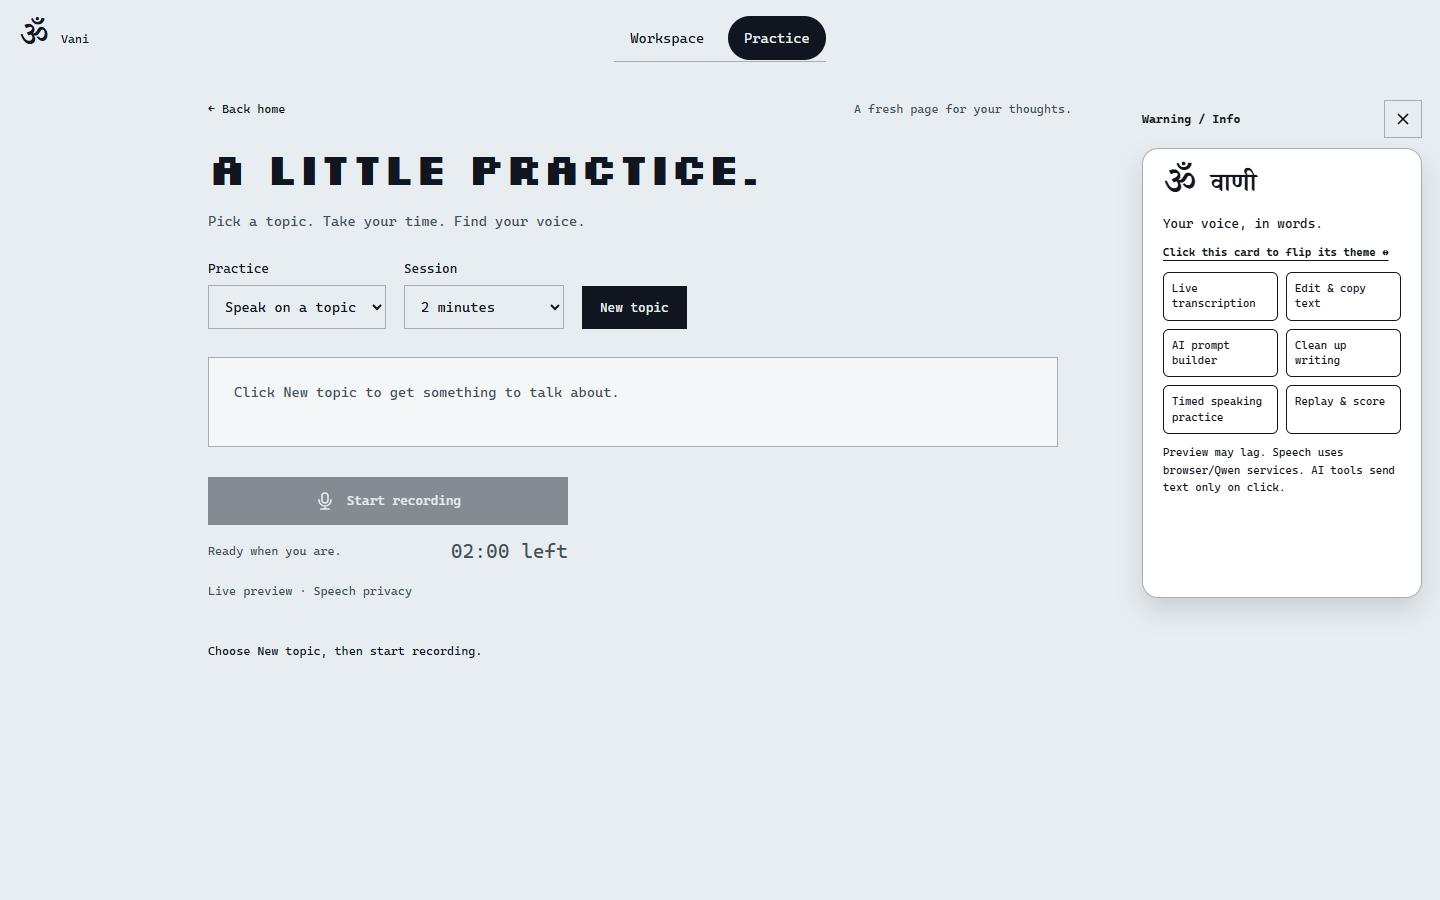
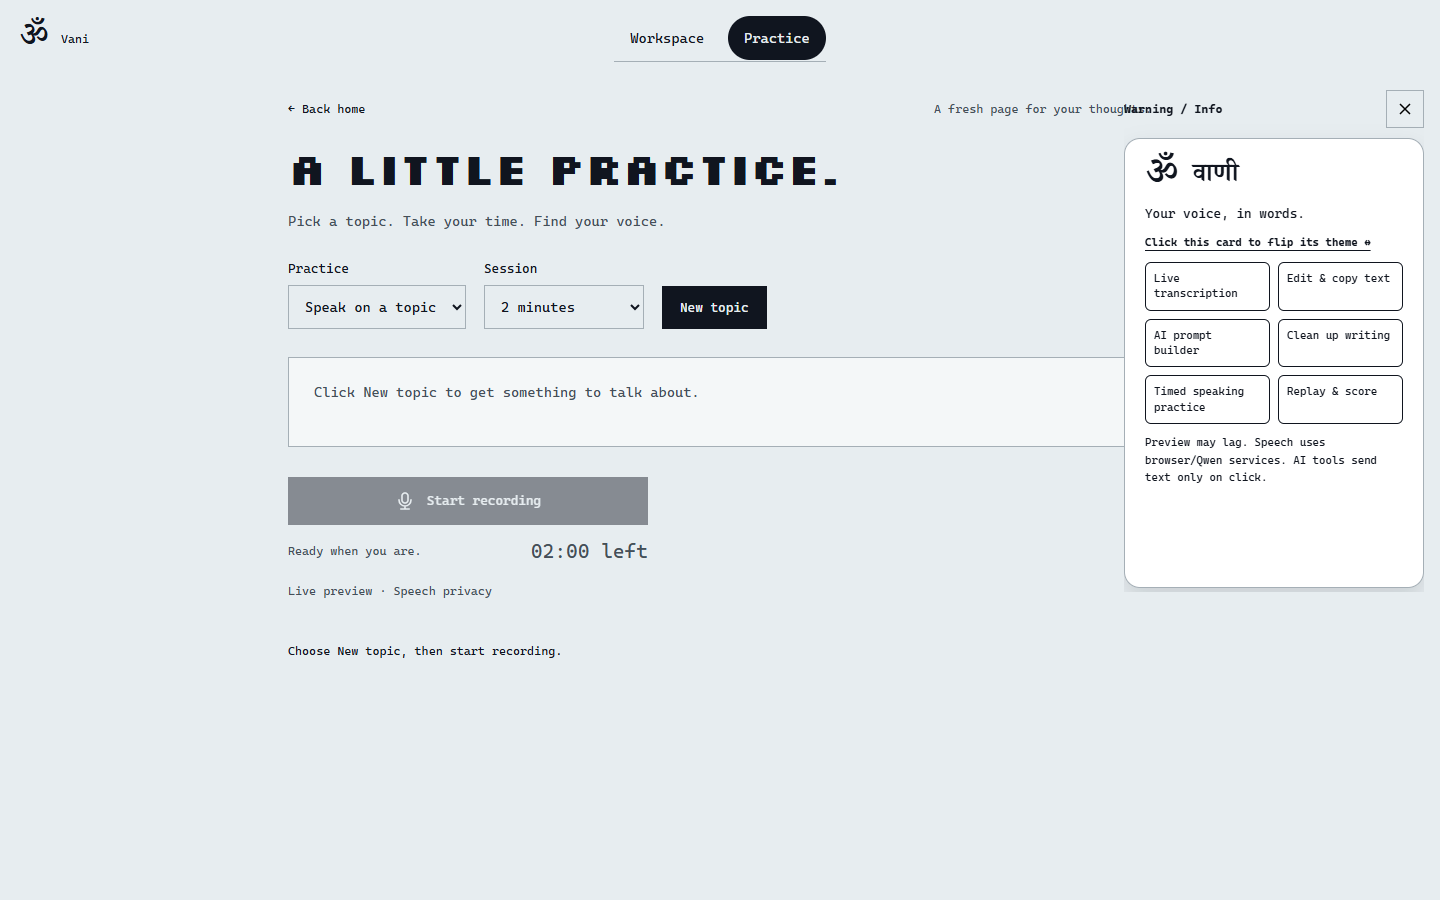
Keep feature cards as top-right room overlays and preserve landing help

diff --git a/static/interface.js b/static/interface.js
@@ -14,26 +14,29 @@ function position() {
     indicator.style.transform = `translateX(${active.offsetLeft}px)`;
   }
 }
+let pageName = null,
+  revision = 0;
 function render(page) {
+  revision++;
+  if (page !== pageName) dismissed = false;
+  pageName = page;
   position();
-  const available = ["home", "dictate", "practice"].includes(page);
+  const room = ["dictate", "practice"].includes(page);
   document.body.classList.toggle("is-home", page === "home");
-  if (page === "home") $("home-view").after(card);
-  else $("main").before(card);
-  card.hidden = !available || dismissed;
-  document.body.classList.toggle(
-    "has-feature-card",
-    available && !dismissed && page !== "home",
-  );
-  $("card-open").hidden = !available || !dismissed;
+  document.body.classList.remove("has-feature-card");
+  $("main").before(card);
+  if (page === "home") $("home-view").append($("card-open"));
+  else card.after($("card-open"));
+  card.hidden = !room || dismissed;
+  $("card-open").hidden = page !== "home" && (!room || !dismissed);
   $("card-open").setAttribute("aria-expanded", String(!card.hidden));
   if (!card.hidden && !matchMedia("(prefers-reduced-motion: reduce)").matches)
     card.animate(
       [
-        { opacity: 0, transform: "translateY(12px)" },
-        { opacity: 1, transform: "translateY(0)" },
+        { opacity: 0, transform: "translateX(calc(100% + 24px))" },
+        { opacity: 1, transform: "translateX(0)" },
       ],
-      { duration: 280, easing: "ease-out" },
+      { duration: 320, easing: "cubic-bezier(.2,.8,.2,1)" },
     );
 }
 document.addEventListener("vani:route", (event) => render(event.detail));
@@ -51,19 +54,28 @@ $("card-flip").onclick = () => {
 };
 $("card-close").onclick = async () => {
   dismissed = true;
+  const version = revision;
   const animation = matchMedia("(prefers-reduced-motion: reduce)").matches
     ? null
     : card.animate(
-        [{ opacity: 1 }, { opacity: 0, transform: "translateY(12px)" }],
-        { duration: 160 },
+        [
+          { opacity: 1, transform: "translateX(0)" },
+          { opacity: 0, transform: "translateX(calc(100% + 24px))" },
+        ],
+        { duration: 180, easing: "ease-in" },
       );
   await animation?.finished;
-  render(location.hash.slice(1) || "home");
+  if (version !== revision) return;
+  render(pageName);
   $("card-open").focus();
 };
 $("card-open").onclick = () => {
+  if (pageName === "home") {
+    location.hash = "dictate";
+    return;
+  }
   dismissed = false;
-  render(location.hash.slice(1) || "home");
+  render(pageName);
   $("card-flip").focus();
 };
 card.querySelector(".card-back").setAttribute("aria-hidden", "true");

diff --git a/static/simple.css b/static/simple.css
@@ -669,3 +669,32 @@
 .card-tagline {
   order: -2;
 }
+
+/* The feature card overlays the room; opening it never changes the workspace layout. */
+.feature-card {
+  position: fixed;
+  top: 90px;
+  right: 16px;
+  left: auto;
+  width: min(300px, calc(100vw - 32px));
+  margin: 0;
+  z-index: 20;
+  max-height: calc(100dvh - 106px);
+}
+.card-flip {
+  height: min(450px, calc(100dvh - 160px));
+}
+.card-open {
+  top: 90px;
+  bottom: auto;
+  right: 16px;
+}
+.is-home #card-open {
+  position: absolute;
+  top: auto;
+  bottom: 12px;
+  right: 18px;
+}
+.is-home .motion-toggle {
+  bottom: 62px;
+}

diff --git a/README.md b/README.md
@@ -70,7 +70,7 @@ Recording automatically starts live text; there is no separate Live checkbox. Mi
 
 This is segmented live preview, not native token-by-token Qwen streaming. A real synthetic English microphone test showed the first Qwen preview before Stop in 7.082 seconds on this machine (docs/live-qwen-evidence.json). This single result is not a speed or multilingual accuracy guarantee. Free shared GPU hosting can queue or exhaust quota, especially with repeated preview calls. Browser speech may use its provider; the Speech privacy link and feature card explain this compactly.
 
-Workspace comes first, followed by Practice, with a moving black navigation indicator. A Vani/penguin feature card appears in both rooms, shows the same features on both faces, flips between black/white themes and stays until closed with X. Closing it persists across rooms for this page session; Warning / Info reopens it. The supplied React Bits reference inspired an original vanilla CSS/JS implementation; React and Motion were not added. Language, recording and transcript come first; Turn into a prompt and Clean up text follow the editor and send text to Gemini only on click, retaining the original.
+Workspace comes first, followed by Practice, with a moving black navigation indicator. A Vani/penguin feature card appears in both rooms, slides in from the right to a fixed top-right overlay, shows the same features on both faces, flips between black/white themes and stays until closed with X. X dismisses it for the current room; Warning / Info reopens it, and entering the other room shows its card again. The supplied React Bits reference inspired an original vanilla CSS/JS implementation; React and Motion were not added. Language, recording and transcript come first; Turn into a prompt and Clean up text follow the editor and send text to Gemini only on click, retaining the original.
 
 The experimental delivery rubric remains completion 40, recognized pace 30 and quiet-time continuity 30; it is not a certified communication or pronunciation grade. Comparable retries show percentage-point and relative change, not daily progress. Optional AI coaching discusses content and possible wording issues.
 
@@ -80,6 +80,6 @@ Checks: node tests/interface.cjs, node tests/live-fallback.cjs, node tests/featu
 
 ## Current brand and animation
 
-The supplied naming image now informs an Om (ॐ) brand mark in the header, feature card and favicon, rendered using the established Devanagari font. This is a symbol treatment, not a claim of Sanskrit speech recognition. The original pale-blue video palette remains. The feature card also appears below the landing hero; both faces show features immediately, with a visible flip instruction. No Expand/Shrink controls.
+The supplied naming image now informs an Om (ॐ) brand mark in the header, feature card and favicon, rendered using the established Devanagari font. This is a symbol treatment, not a claim of Sanskrit speech recognition. The original pale-blue video palette remains. The landing card is hidden, while Warning / Info remains below Play/Pause and opens Workspace; both faces show features immediately, with a visible flip instruction. No Expand/Shrink controls.
 
 The penguin media retains the supplied animation at 25 fps, with a forward/reverse loop to avoid the abrupt end-to-start cut. Play/Pause has a visible label, changing icon and aria-pressed state synchronized with real media events. Reduced-motion disables autoplay. Browser checks cover both actual pause/time freeze and resumed playback, including a second reduced-motion tab.

diff --git a/docs/playbook-hardening.md b/docs/playbook-hardening.md
@@ -110,3 +110,9 @@ The penguin's 12.28-second clip was converted into a forward/reverse loop at its
 The two-tab reduced-motion regression uncovered a real startup issue: uvicorn logged repeated Exceeded concurrency limit warnings, and the second tab had default HTML controls, no loaded video and no running UI scripts. Local HTTP admission was 8, insufficient for parallel static assets/media in multiple tabs. Both launch scripts now use a bounded 32 HTTP connections; Qwen's one-inference admission and localhost binding remain unchanged. After restarting the verified idle local server, the same two-tab playback/reduced-motion check passed. This is a static-loading fix, not a user-capacity/SLO claim.
 
 Brand/media UI, matching-face/X/reopen/mobile checks, separate-draft Practice checks, recording/copy baseline, timer checks, launcher and 27 Python tests pass. No new real AI request or language-accuracy test was performed for this visual/media change.
+
+## Top-right overlay placement
+
+Landing no longer displays a card. Warning / Info remains below Play/Pause and opens Workspace. Workspace and Practice entry slides the card from the right to a fixed top-right position (90px from top, 16px from right), including mobile. It overlays the page without changing content bounds. X dismisses the current room card; help restores it; changing rooms reveals the card again. Reduced-motion skips sliding. A revision check prevents a stale close animation from hiding a newly entered room's card.
+
+The overlay test confirms hidden landing card, preserved help placement, room entry, exact desktop/mobile positioning, no horizontal overflow and identical workspace bounds before/after dismissal. Card flip/X/reopen, branding/playback/reduced-motion and recording/copy baseline checks pass. Existing recording tests now explicitly dismiss the intentional overlay before working with controls beneath it. No backend, inference or microphone change; no new real ASR/AI request was needed.

diff --git a/PRODUCT.md b/PRODUCT.md
@@ -61,3 +61,7 @@ Preserve landing design. Use a sliding black active tab and a dismissible/expand
 ## Latest requested layout and identity
 
 Workspace first, Practice second. Language/recording/transcript precede prompt and cleanup tools. Keep Practice behavior unchanged. Front and back of the feature card show the same features and an explicit click-to-flip instruction in inverse black/white themes. Only X dismisses; Warning / Info reopens. Include the card below the landing hero. User explicitly selected the Om mark from the supplied name reference for Vani branding, replacing the round face/penguin card identity. Preserve reference pale-blue palette. Smooth the penguin loop and make real playback state obvious.
+
+## Latest card placement correction
+
+No feature card on the initial landing page. Keep Warning / Info below Play/Pause; it leads into Workspace and shows the card. On entering either Workspace or Practice, slide the card from the right into a fixed top-right overlay, including on mobile. Do not move, shrink or push down the workspace. X dismisses the current room card, Warning / Info reopens it, and entering the other room shows its card again.

diff --git a/DESIGN.md b/DESIGN.md
@@ -18,3 +18,5 @@ Authority: the user's 1440 × 662, 12.28-second preview video, sampled at one-se
 - Compact automatic preview, moving black navigation pill and original CSS flip card inspired by the supplied React Bits example. Desktop reserves space beside the workspace; small screens put the card in document flow. Close persists until reopened during the page session. Reduced motion disables flip/nav transitions. Prompt tools precede the editor.
 
 - Latest layout: Workspace first, dictation/editor before writing tools. Om brand mark from the user's explicit symbol brief, original pale-blue ground, inverse black/white feature-card faces with matching feature tiles. X-only dismissal, Warning / Info restore. Landing features sit below the original hero. A visible labeled Play/Pause tracks actual media state; penguin loop is forward/reverse at the original frame rate.
+
+- Final placement: hide the landing card, retain the help trigger beneath playback. Room cards are fixed top-right overlays on every viewport, with rightward entry/exit and no content reflow or reserved sidebar. New room entry reveals the card; X dismisses it until reopened or changing rooms.
